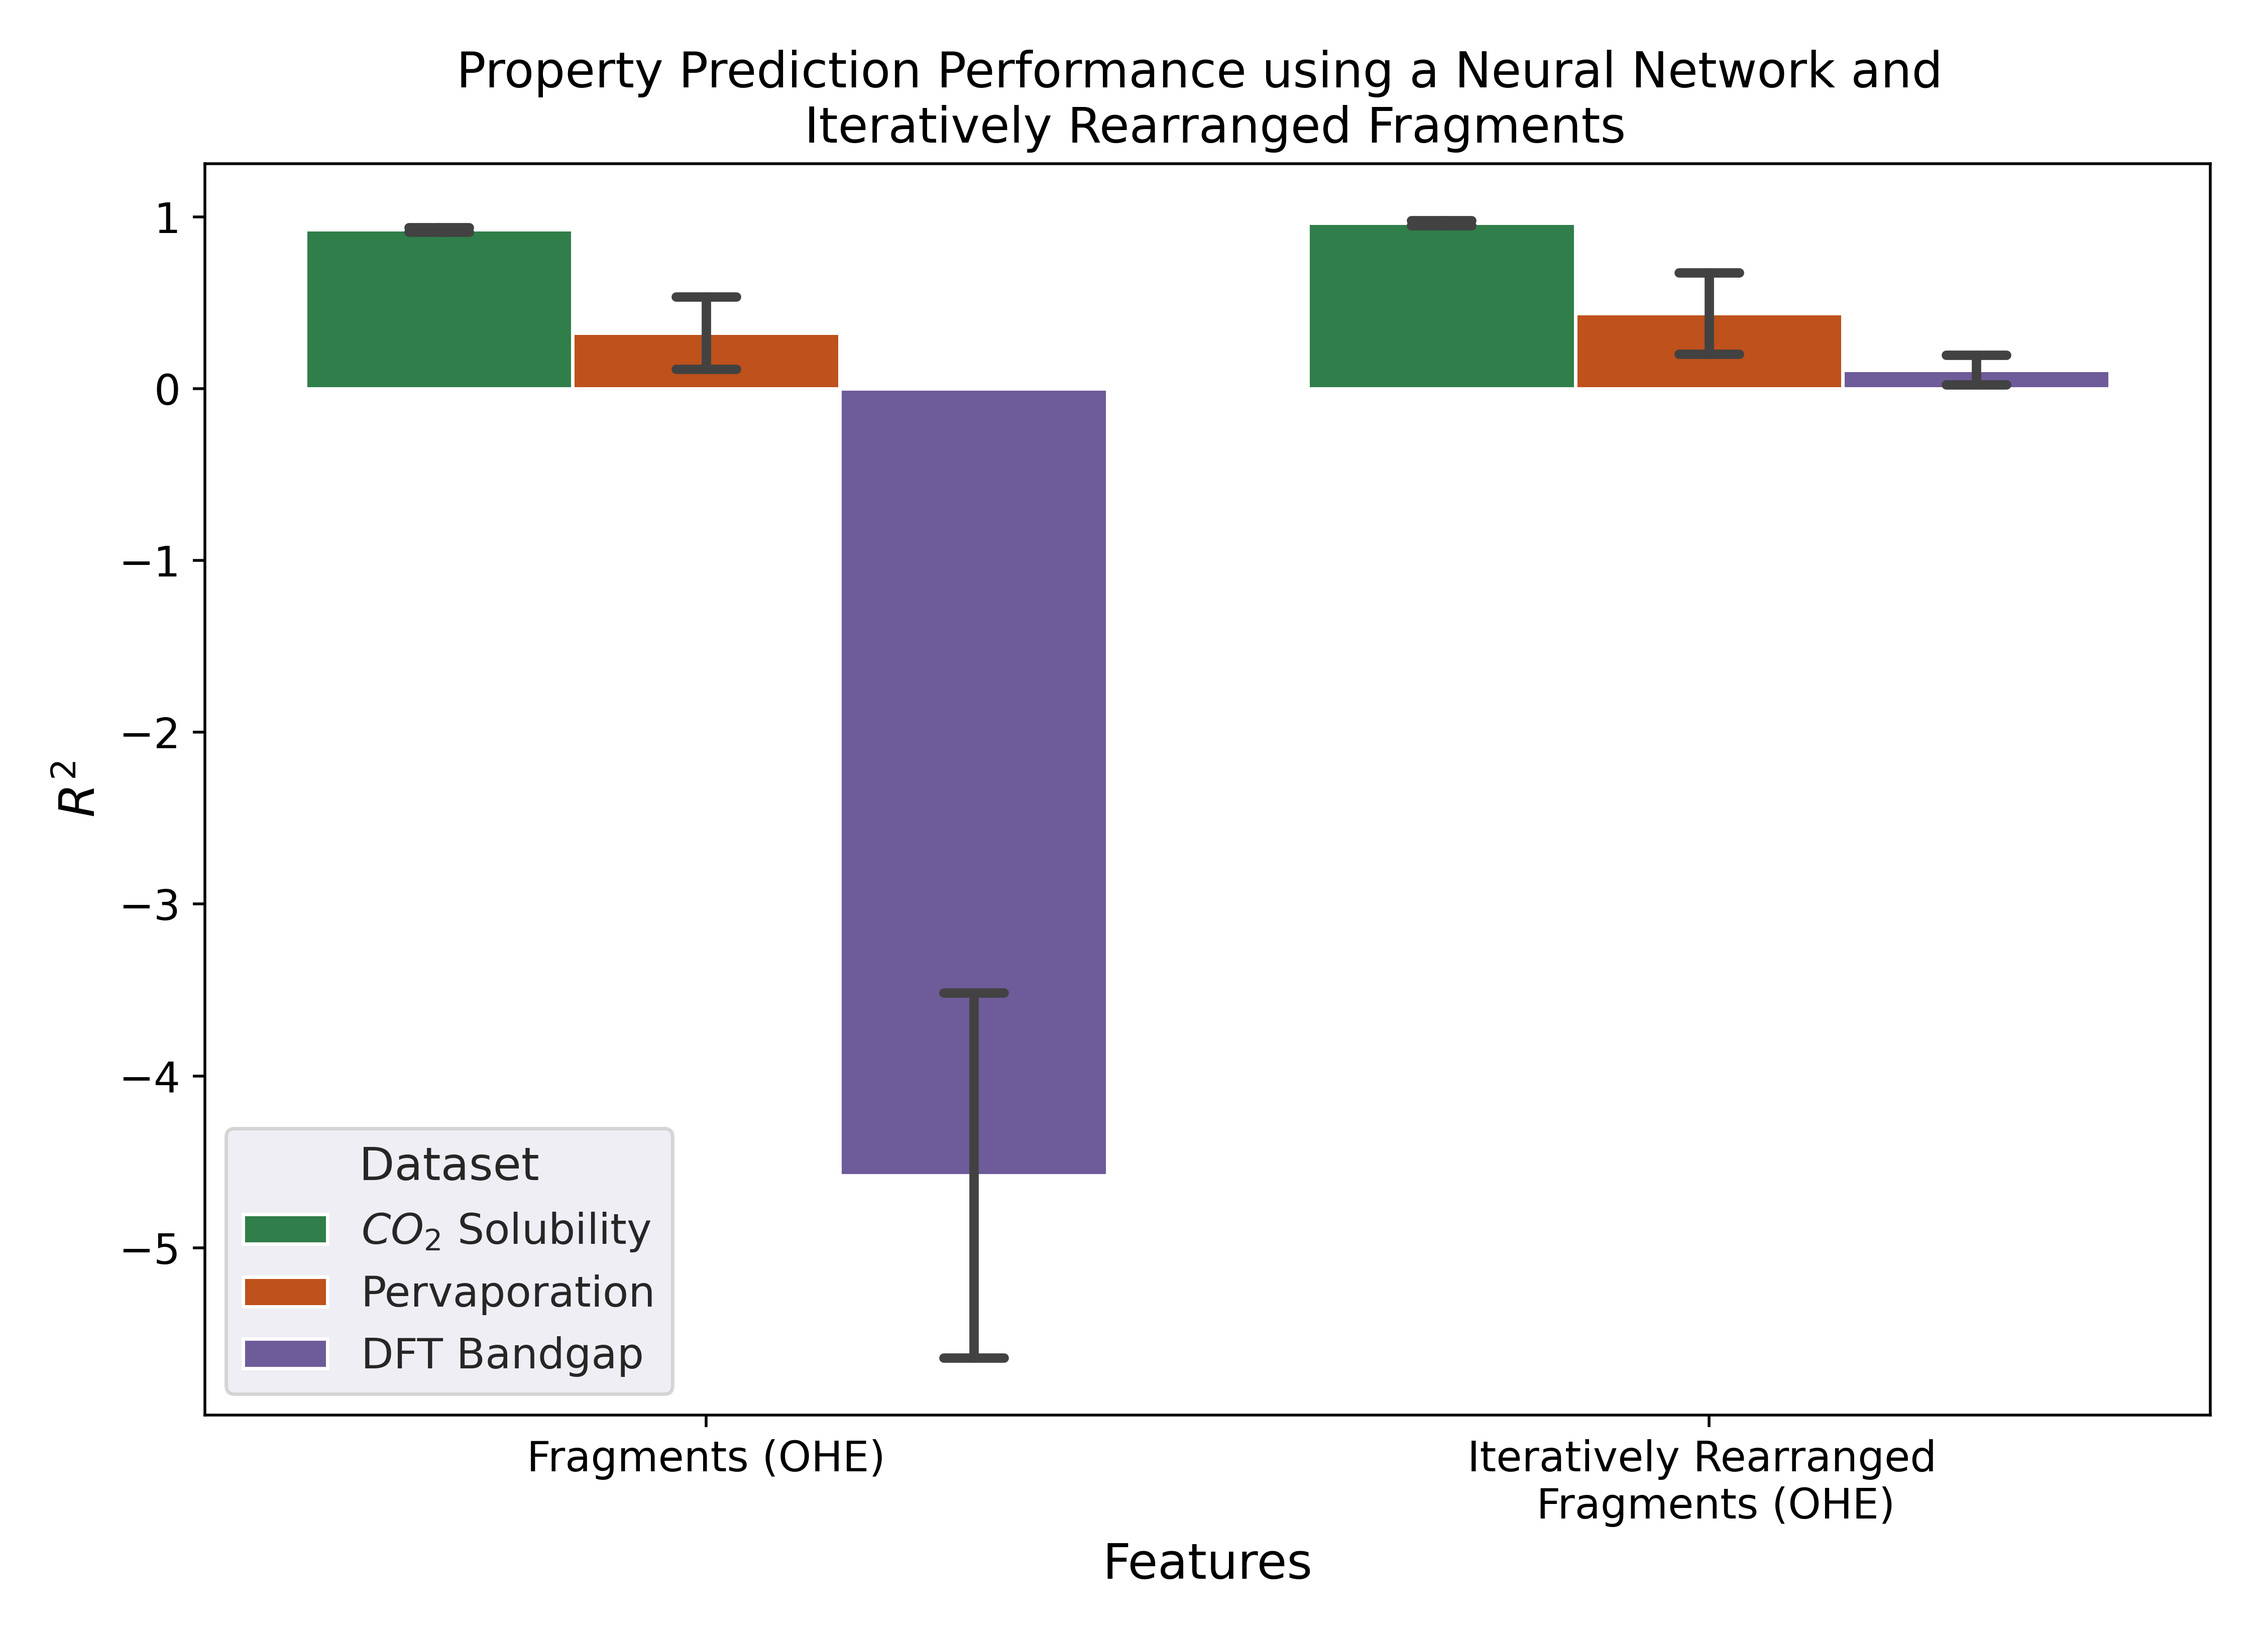
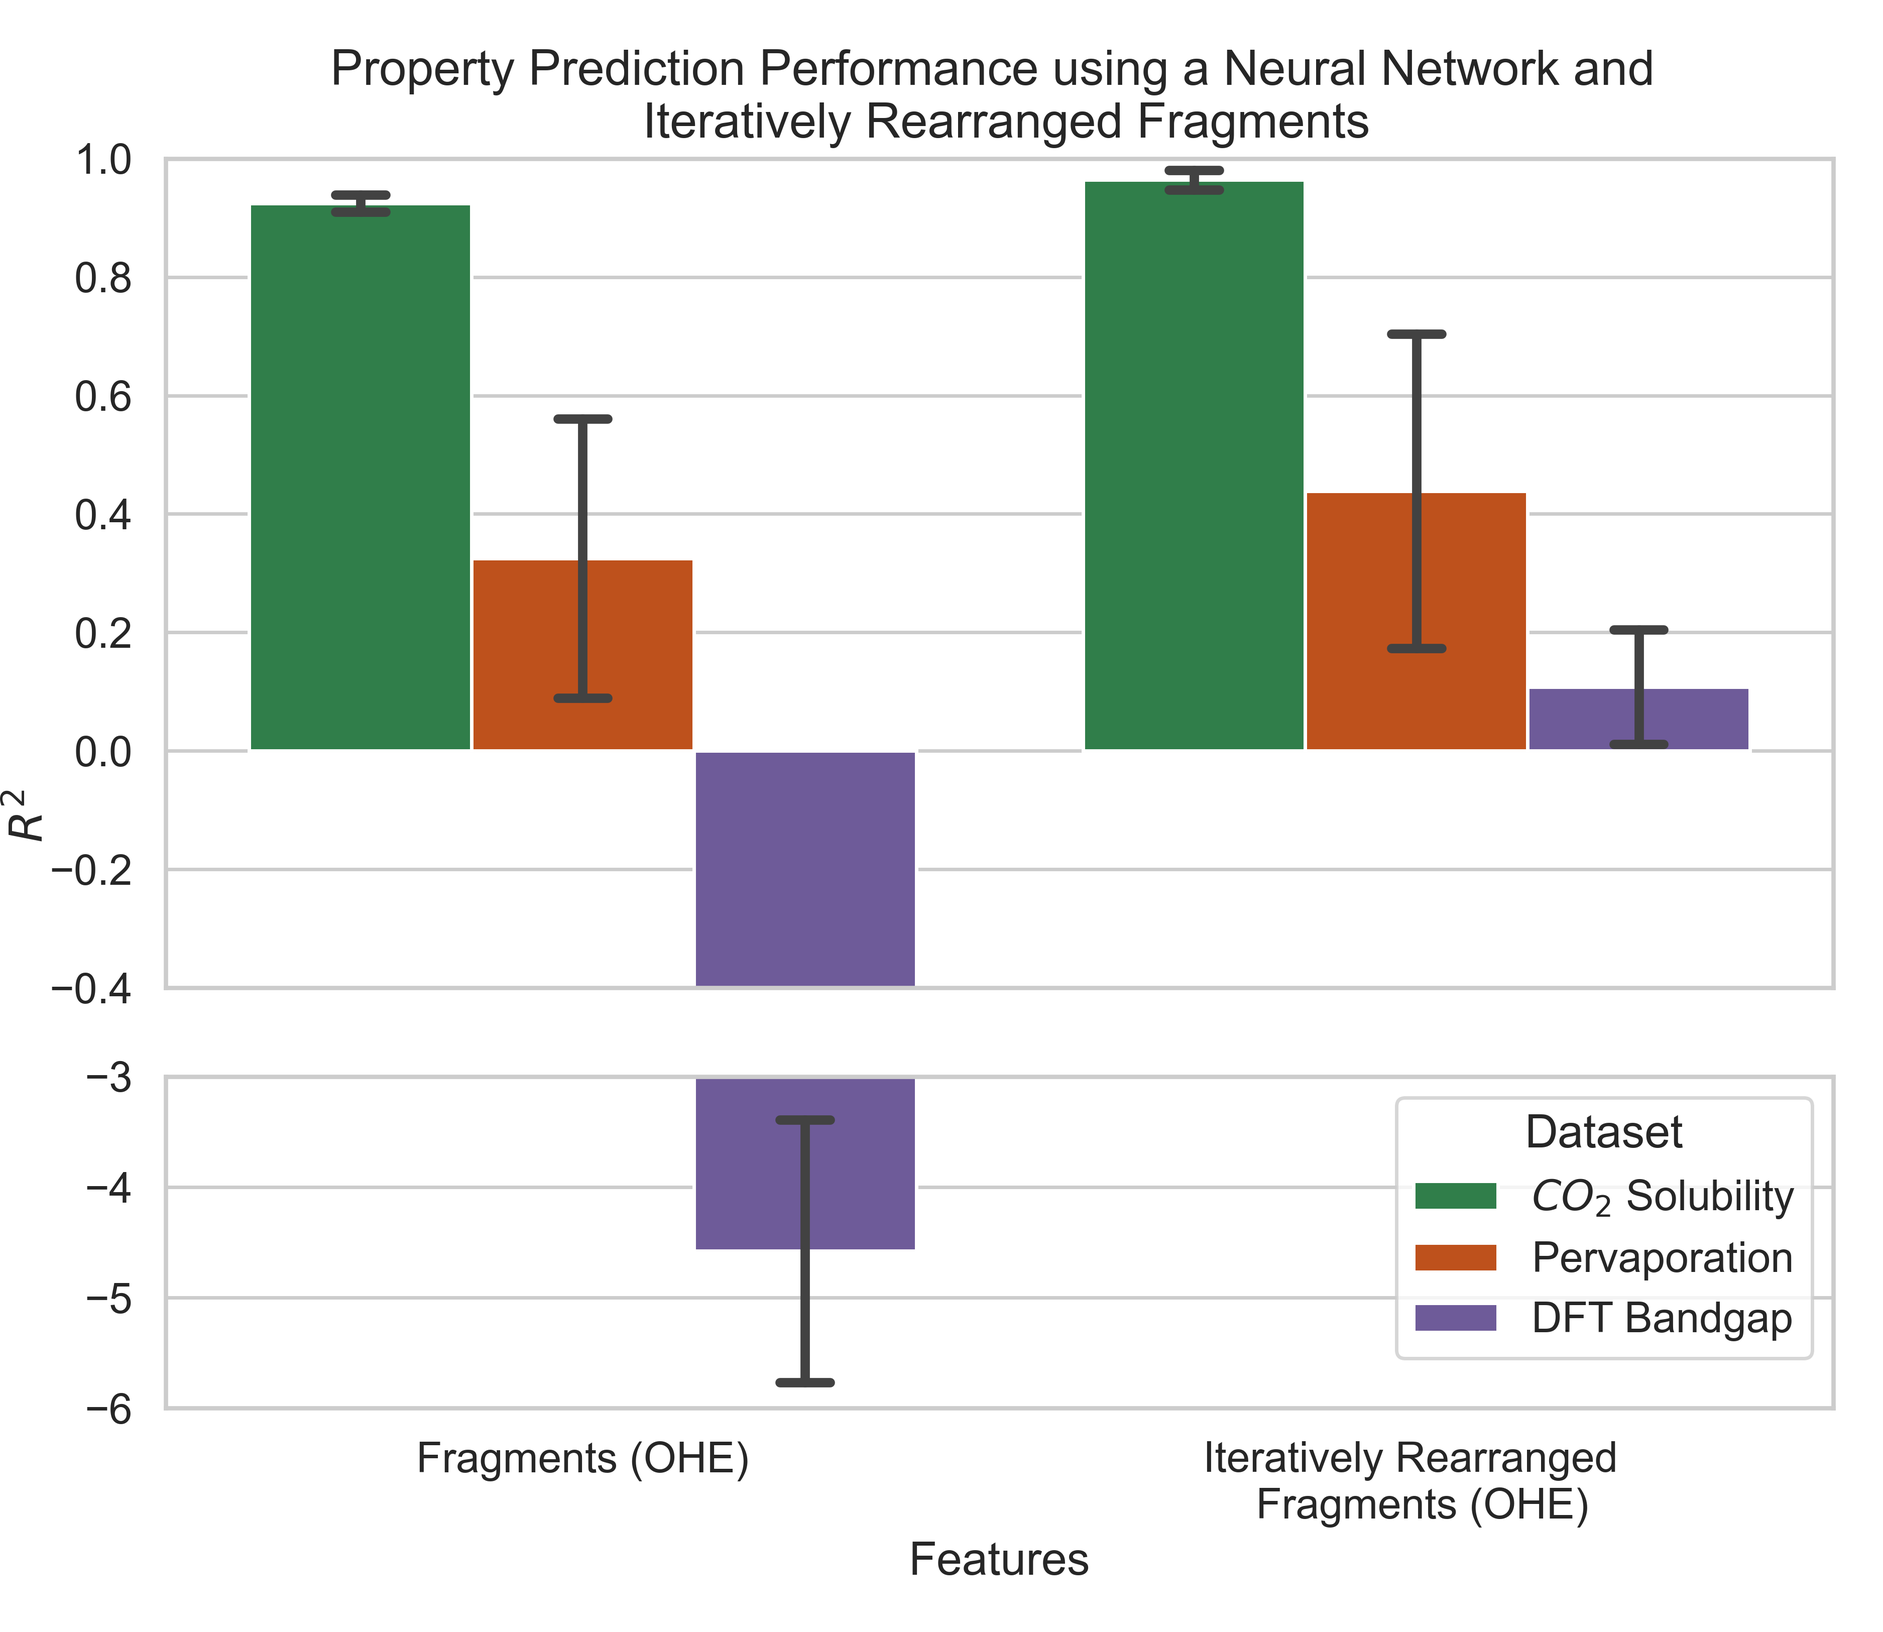
finished plotting (bit scuffed)

diff --git a/da_for_polymers/visualization/barplot.py b/da_for_polymers/visualization/barplot.py
@@ -170,7 +170,16 @@ def barplot(config: dict):
             fontsize=14,
         )  # config["models"][0])
         if "fingerprint" in config["config_name"]:
-            sns.barplot(
+            sns.set_style("whitegrid", {'axes.grid' : True})
+            # add broken axis
+            f, ax = plt.subplots(1,1,figsize=(7.5, 6.5))
+            ax.set_title(
+            "Property Prediction Performance using a Neural Network and \n Iteratively Rearranged Recombined Fragments (ECFP6)".format(
+                config["models"][0]
+            ),
+            fontsize=14,
+        )  # config["models"][0])
+            ax = sns.barplot(
                 x=summary[config["x"]],
                 y=summary[config["metrics"]],
                 ci="sd",
@@ -184,6 +193,8 @@ def barplot(config: dict):
                 hue_order=[r"$CO_2$ Solubility", "Pervaporation", "DFT Bandgap"],
                 capsize=0.06,
             )
+            ax.set_ylim(0,1)
+
         else:
             sns.barplot(
                 x=summary[config["x"]],
@@ -206,11 +217,20 @@ def barplot(config: dict):
             fontsize=14,
         )  # config["models"][0])
         if "frag" in config["config_name"]:
-            sns.barplot(
+            sns.set_style("whitegrid", {'axes.grid' : True})
+            # add broken axis
+            f, (ax1, ax2) = plt.subplots(2,1, sharex=True, figsize=(7.5, 6.5), gridspec_kw={'height_ratios': [5, 2]})
+            ax1.set_title(
+            "Property Prediction Performance using a Neural Network and \n Iteratively Rearranged Fragments".format(
+                config["models"][0]
+            ),
+            fontsize=14,
+        )  # config["models"][0])
+            ax1 = sns.barplot(
                 x=summary[config["x"]],
                 y=summary[config["metrics"]],
                 ci="sd",
-                ax=ax,
+                ax=ax1,
                 hue=summary[config["hue"]],
                 order=[
                     "Fragments (OHE)",
@@ -221,6 +241,32 @@ def barplot(config: dict):
                 hue_order=[r"$CO_2$ Solubility", "Pervaporation", "DFT Bandgap"],
                 capsize=0.06,
             )
+            ax2 = sns.barplot(
+                x=summary[config["x"]],
+                y=summary[config["metrics"]],
+                ci="sd",
+                ax=ax2,
+                hue=summary[config["hue"]],
+                order=[
+                    "Fragments (OHE)",
+                    "Iteratively Rearranged \n Fragments (OHE)",
+                    # "Fragment (SMILES)",
+                    # "Augmented Fragment (SMILES)",
+                ],
+                hue_order=[r"$CO_2$ Solubility", "Pervaporation", "DFT Bandgap"],
+                capsize=0.06,
+            )
+            ax1.set_ylim(-0.4, 1)
+            ax2.set_ylim(-6, -3)
+            ax1.get_xaxis().set_visible(False)
+            ax1.get_legend().remove()
+            # arguments to pass to plot, just so we don't keep repeating them
+            # kwargs = dict(transform=ax1.transAxes, color='k', clip_on=False)
+            # d = 0.01
+            # ax1.plot((-d, +d), (-d, +d), **kwargs)        # top-left diagonal
+            # kwargs = dict(transform=ax2.transAxes, color='k', clip_on=False)
+            # d = 0.01
+            # ax2.plot((+d, -d), (1+d, 1-d), **kwargs)        # top-left diagonal
         else:
             sns.barplot(
                 x=summary[config["x"]],
@@ -262,8 +308,13 @@ def barplot(config: dict):
         # min_yval: float = min_yval - list(summary["r_std"])[min_idx_yval]
         # min_yval: float = min_yval * 0.9
         ax.set_ylim(min_yval, 1)
-    ax.set_ylabel("$R^2$", fontsize=14)
-
+    # ax.set_ylabel("$R^2$", fontsize=14)
+    # by default, each part will get its own "Latency in ms" label, but we want to set a common for the whole figure
+    # first, remove the y label for both subplots
+    ax1.set_ylabel("")
+    ax2.set_ylabel("")
+    # then, set a new label on the plot (basically just a piece of text) and move it to where it makes sense (requires trial and error)
+    f.text(0.004, 0.5, "$R^2$", va="center", rotation="vertical")
     # wrap_labels(ax)
     # for plotting/saving
     plt.tight_layout()

diff --git a/README.md b/README.md
@@ -21,8 +21,4 @@ Keywords: data augmentation, machine learning, polymers, molecular representatio
 6. Access processed data ->  `da_for_polymers/data/input_representation/Dataset`
 6. Access prediction results -> `da_for_polymers/training`
 7. Run the shell files in `da_for_polymers/ML_models/pytorch/Dataset` or `da_for_polymers/ML_models/sklearn/Dataset` to run models on your setup. To run specific models or molecular representations, uncomment or comment specific lines. Recommened to understand how to use argument parsers for these scripts.
-<<<<<<< HEAD
 8. To view or re-create figures, go to -> `da_for_polymers/visualization`. Each figure in the paper can be recreated with the `recreate_all_plots.sh` file (read comments). (Supplementary Figures are found in `da_for_polymers/data/exploration`)g
-=======
-8. To view or re-create figures, go to -> `da_for_polymers/visualization`. Each figure in the paper can be recreated with the `recreate_all_plots.sh` file (read comments). (Supplementary Figures are found in `da_for_polymers/data/exploration`)
->>>>>>> 3518320fe8131a4d5c99874c5d2194ecbf421006
